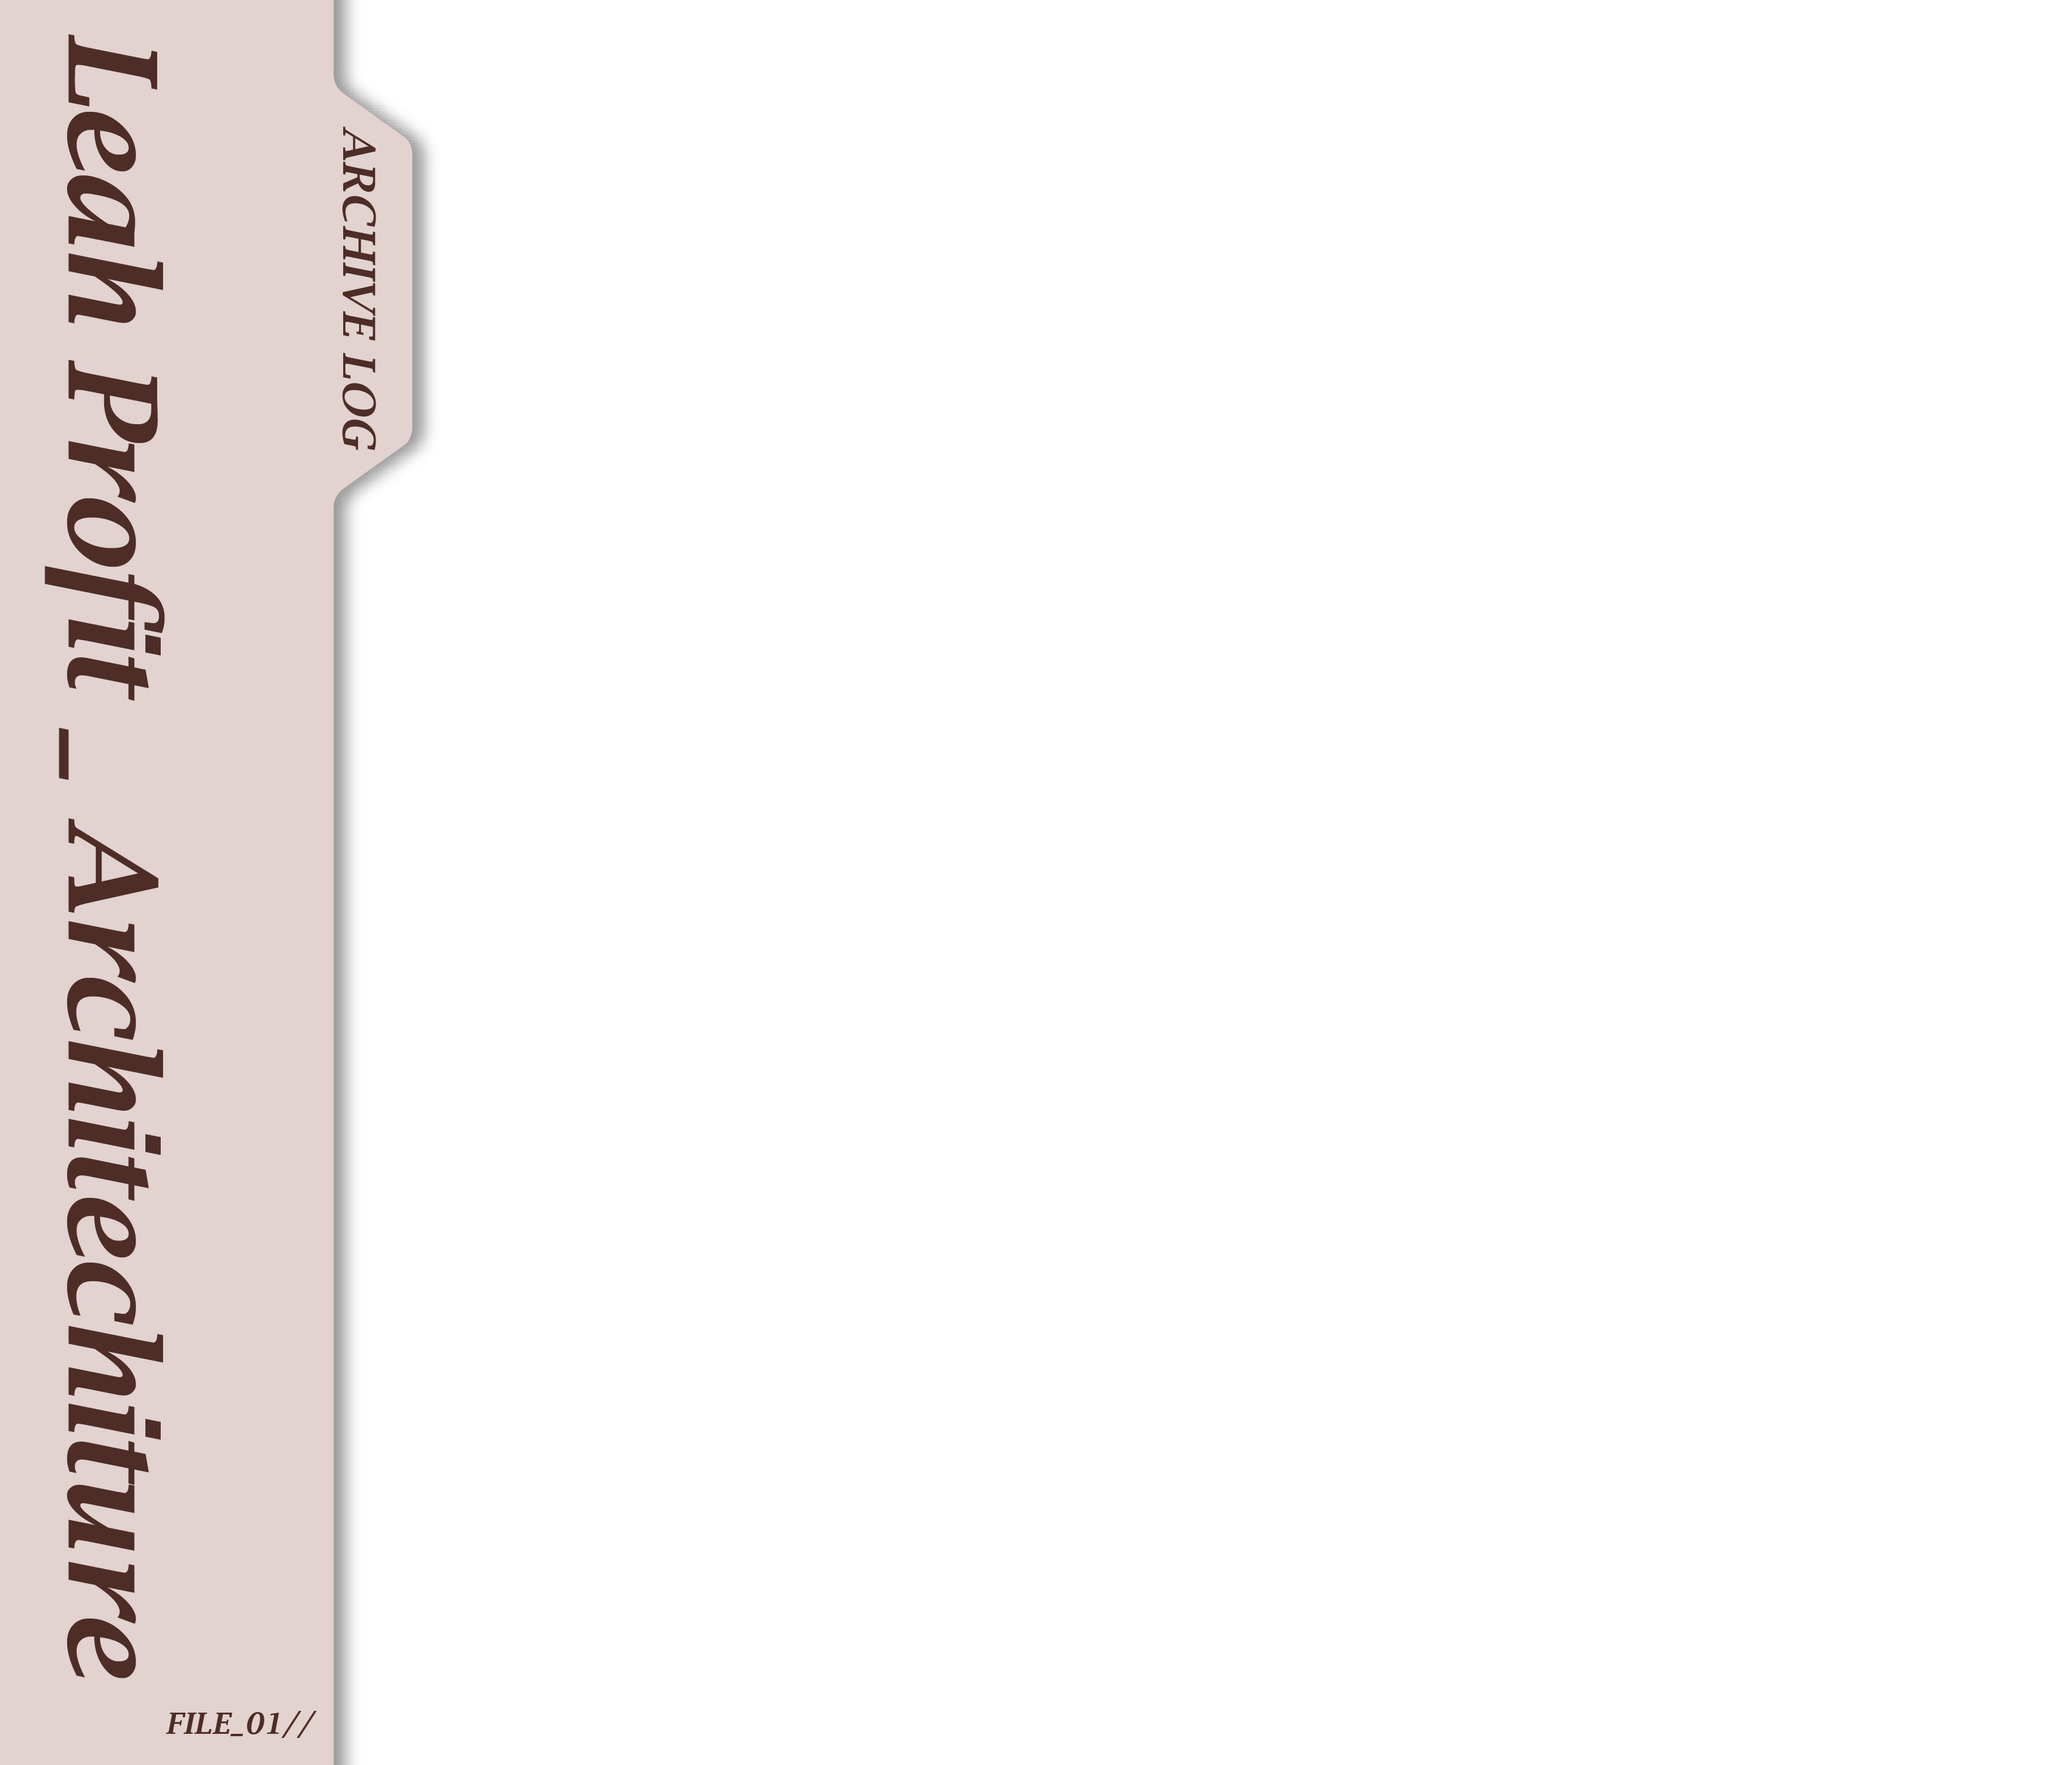
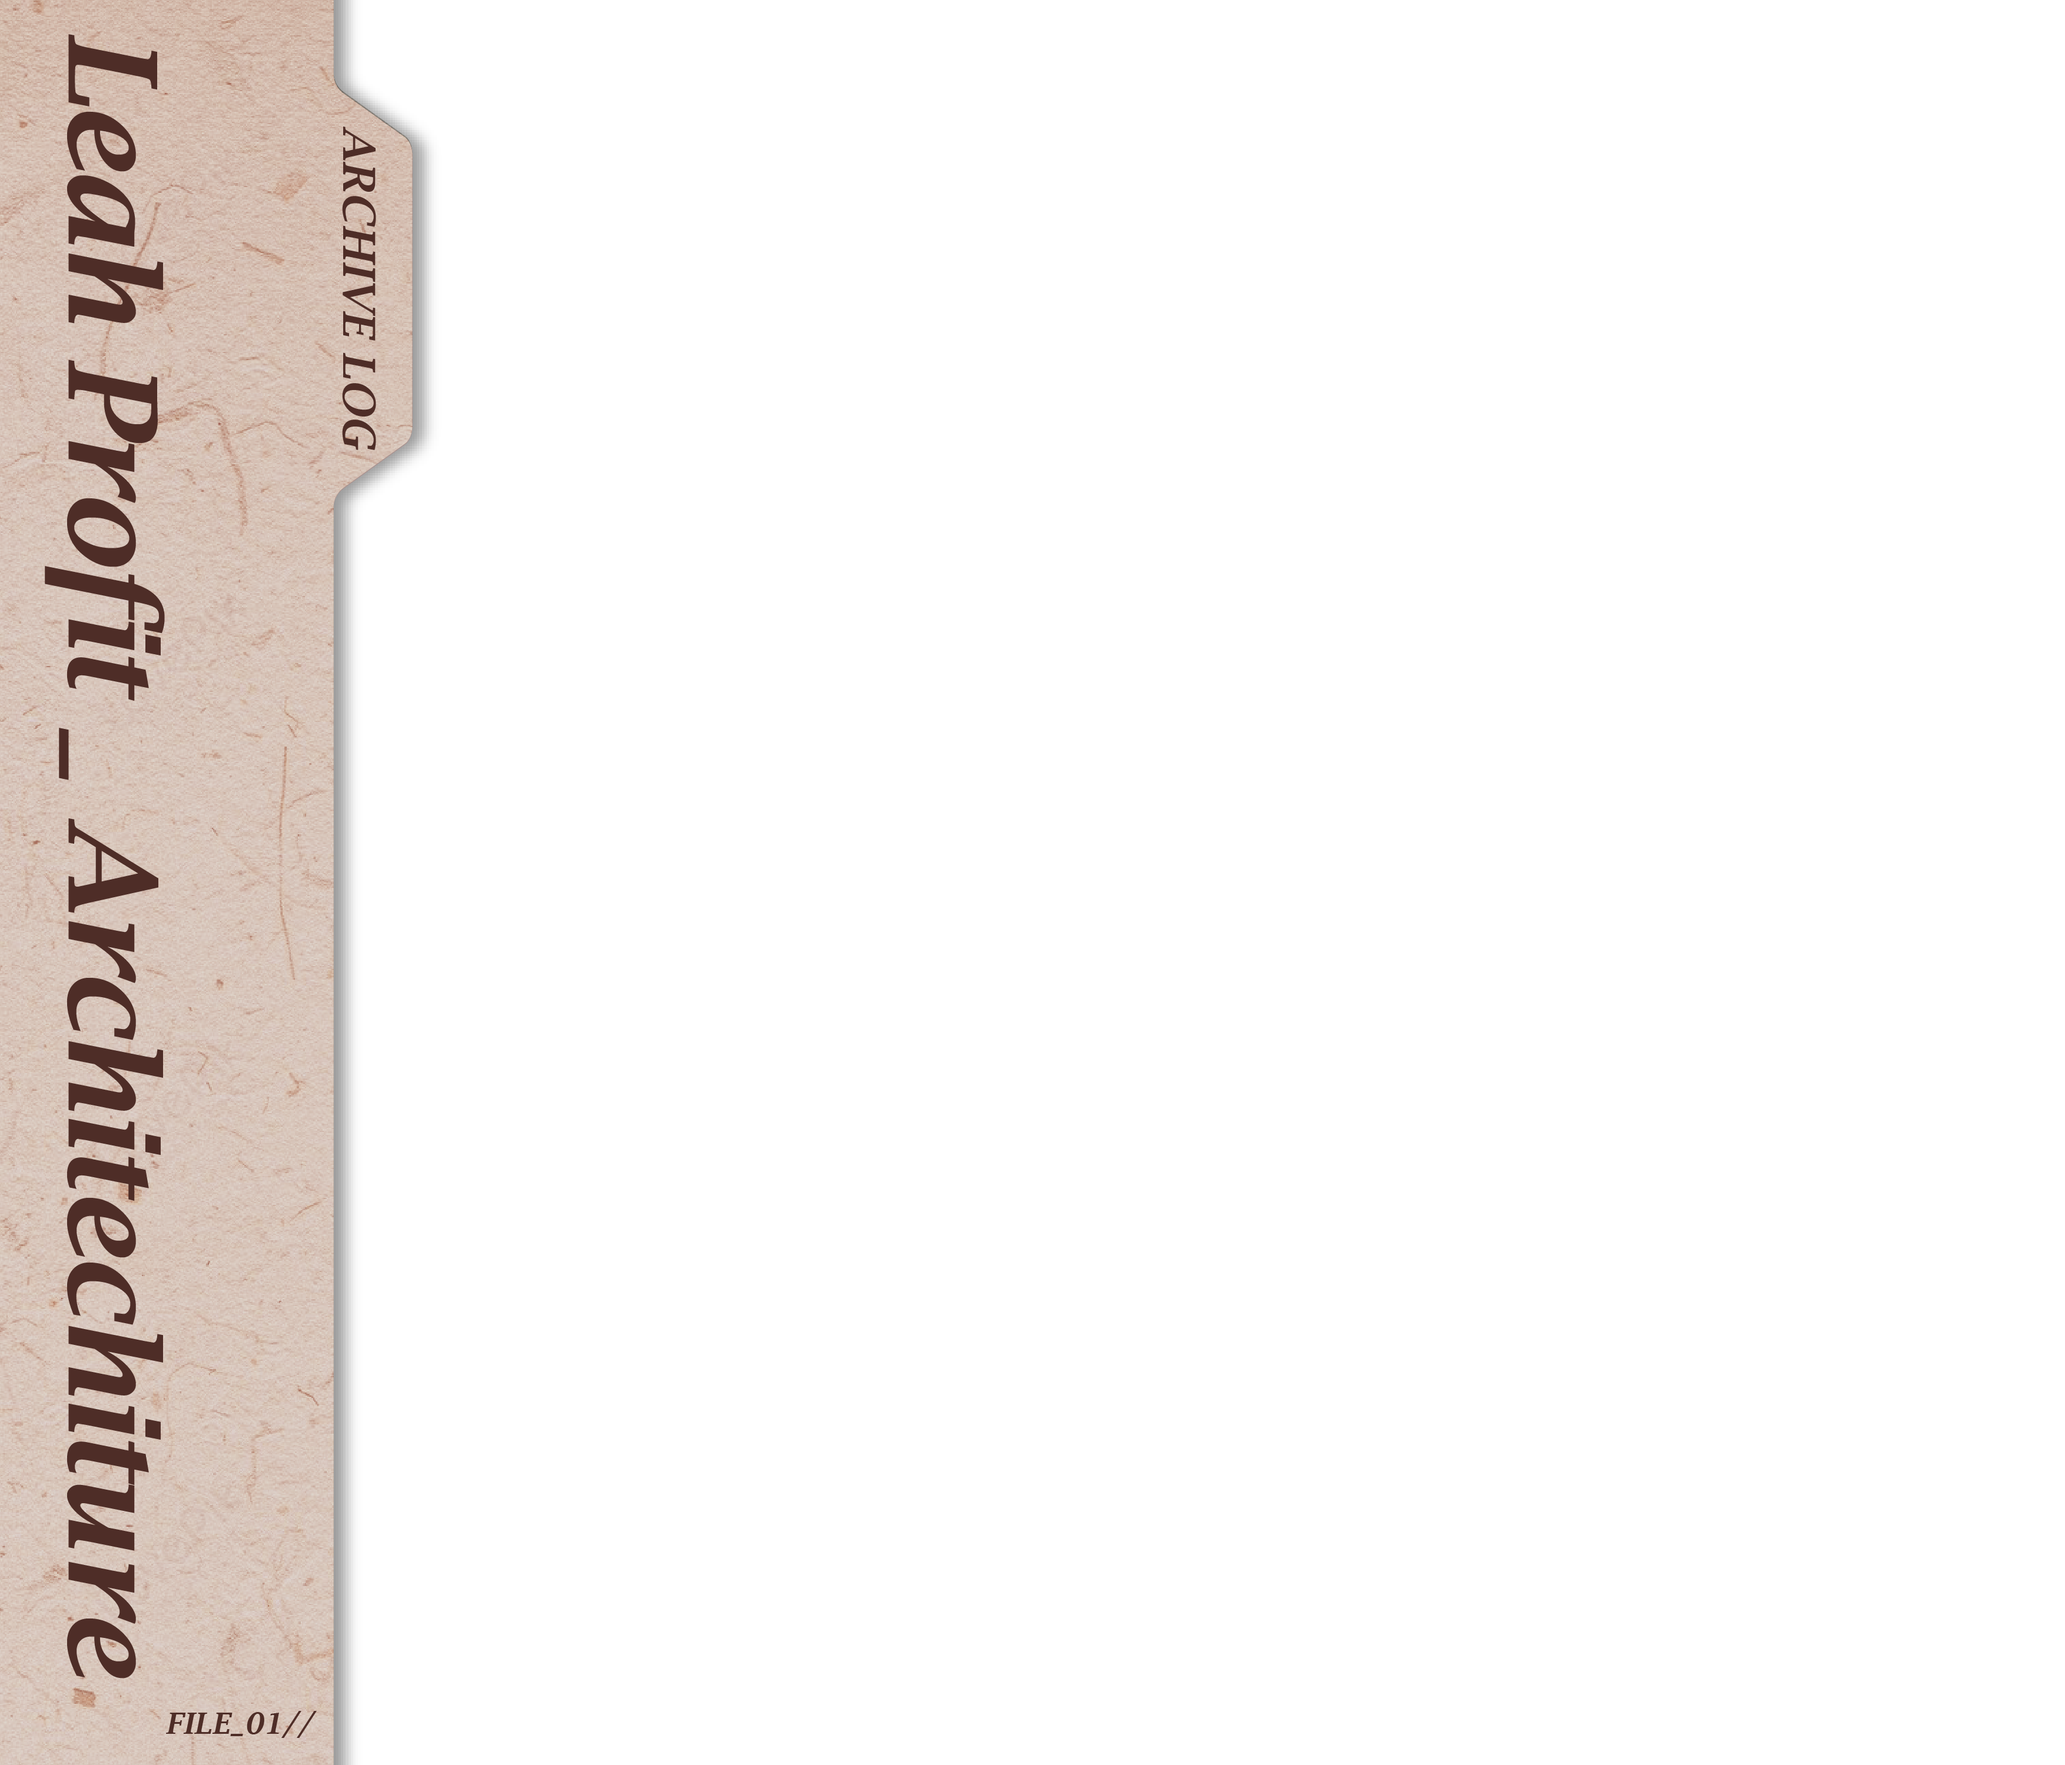
Update portfolio covers and use cover6 as archive backdrop.
Drop the paper overlay in favor of baked-in cover art, refresh covers 1–5, and place cover6 as the fixed bottom layer.

Changed region(s): [[0.0, 0.0, 0.2175, 1.0]]

diff --git a/app/page.tsx b/app/page.tsx
@@ -335,8 +335,10 @@ const mapCastles = [
 ] as const;
 
 /* profit cover1–5 share one 3508×3000 canvas; transparent gaps + left-on-top z-order
-   recreate profit cover.png. Hit strips are the exclusive visible columns L→R. */
-const folderAssetVersion = "20260805a";
+   recreate profit cover.png. Hit strips are the exclusive visible columns L→R.
+   cover6 sits behind as the archive backdrop. */
+const folderAssetVersion = "20260805c";
+const folderBackdropSrc = `/profit cover6.png?v=${folderAssetVersion}`;
 const folderThemes = [
   { src: `/profit cover1.png?v=${folderAssetVersion}`, label: "ARCHIVE LOG", ink: "#4c2b21", hit: { left: "0%", width: "19.5%" } },
   { src: `/profit cover2.png?v=${folderAssetVersion}`, label: "CLIFF CHURCH", ink: "#2b2218", hit: { left: "19.5%", width: "18.5%" } },
@@ -725,6 +727,14 @@ function MapView({
           role="list"
           onPointerLeave={() => setHoveredFolder(null)}
         >
+          <div className="folder-backdrop" aria-hidden="true">
+            <img
+              src={folderBackdropSrc}
+              alt=""
+              className="folder-cover-img"
+              draggable={false}
+            />
+          </div>
           {folderThemes.map((theme, index) => (
             <div
               key={`layer-${theme.label}`}
@@ -765,13 +775,6 @@ function MapView({
               />
             );
           })}
-          <div className="portfolio-texture" aria-hidden="true">
-            <img
-              src={`${encodeURI("/profit cover 叠加.png")}?v=${folderAssetVersion}`}
-              alt=""
-              draggable={false}
-            />
-          </div>
         </div>
       </div>
     </main>

diff --git a/app/globals.css b/app/globals.css
@@ -669,6 +669,17 @@ button { border: 0; cursor: pointer; }
   height: 100%;
   overflow: hidden;
 }
+.folder-backdrop {
+  position: absolute;
+  inset: 0;
+  z-index: 0;
+  pointer-events: none;
+  opacity: 0;
+  transition: opacity 0.45s ease;
+}
+.portfolio-overlay.is-open .folder-backdrop {
+  opacity: 1;
+}
 .folder-layer {
   position: absolute;
   inset: 0;
@@ -710,25 +721,6 @@ button { border: 0; cursor: pointer; }
   background: transparent;
   cursor: pointer;
   transition: transform 0.4s cubic-bezier(.22,.7,.2,1);
-}
-.portfolio-texture {
-  position: absolute;
-  inset: 0;
-  z-index: 70;
-  pointer-events: none;
-  opacity: 0;
-  mix-blend-mode: multiply;
-  transition: opacity 0.45s ease;
-}
-.portfolio-overlay.is-open .portfolio-texture {
-  opacity: 0.6;
-}
-.portfolio-texture img {
-  width: 100%;
-  height: 100%;
-  object-fit: fill;
-  opacity: 1;
-  user-select: none;
 }
 .map-scale { position: absolute; right: 6vw; top: 16vh; color: #575762; font: 7px var(--font-mono); letter-spacing: .18em; }
 .map-scroll-hint {
